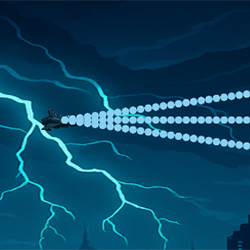
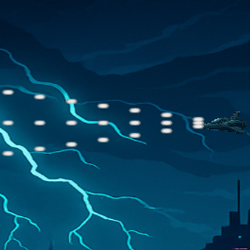
Fixed bullet bugs, changed assets and bullet selector (added desc too)

diff --git a/script.js b/script.js
@@ -1,25 +1,14 @@
 // ───────────────────────────── GLOBAL VARIABLES ─────────────────────────────
-
 let playerleft, playerright, player, bulletColor, stageData, stageBgImg, startButton, controlsButton, leaderboardButton, backButton, rightArrow, leftArrow, nextButton, difficulty, font, menubg, controls, pulse, fracture, gravetide, menuvid, stageBackgrounds, menuTitle, username, deathSound, bulletStrong, bulletWeak, playerCollision;
-let worldWidth = 1500;
+let score = 0, camX = 0, state = 0,bulletrotator = 0,lastShotTime = 0, finalScore = 0;
+let petdirectionP = 1, currentStage = 1, currentLevel = 1;
+let stageInitialized = false, gameOver = false, scoreSubmitted = false, isPaused = false;
 let playerSpeed = 5;
-let score = 0;
-let camX = 0;
-let state = 0;
-let bulletrotator = 0;
-let lastShotTime = 0;
-let petdirectionP = 1;
 let hitpoints = 100; //current hitpoints
 let hitpointsMax = 100; //max hitpoints on hard
-let currentStage = 1;
-let currentLevel = 1;
-let finalScore = 0;
-let stageInitialized = false;
+let worldWidth = 1500;
 let menuState = "main";
 let leaderBoard = [["Pilot 1", 310], ["Pilot 2", 1105], ["Pilot 3", 2206]]; //just filling for the leaderboard
-let gameOver = false;
-let scoreSubmitted = false;
-let isPaused = false;
 // Kamikaze enemy
 let wavesofK = 5, waveKActive = false, waveKSpawned = false;
 let warningStartTimeK = 0, warningDelayK = 1000, warningPatternK = null;
@@ -89,6 +78,7 @@ function setup() {
   menuTitle.style("color", "white");
   menuTitle.style("font-family", "Rubik Glitch");
   menuTitle.position(100, height / 2 - 250);
+  
   startButton = createMenuButton('START', 100, height / 2 - 100);
   controlsButton = createMenuButton('CONTROLS',100, height / 2);
   leaderboardButton = createMenuButton('LEADERBOARD',100, height / 2 + 100);
@@ -199,7 +189,7 @@ function wmedium(direction, y1, y2) {
   }
 }
 function wheavy(direction) {
-  const shotCooldown = 100;
+  const shotCooldown = 200;
   if (millis() - lastShotTime > shotCooldown) {
       let w = createSprite(player.position.x, player.position.y, 5);
       w.addImage(wheavyimg);
@@ -391,7 +381,6 @@ function ui() {
   // Calculate the filled width based on hitpoints
   let filledWidth = map(hitpoints, 0, hitpointsMax, 0, barWidth);
   rect(x, y, filledWidth, barHeight, 10);
-  console.log("HP:", hitpoints);
   fill(255);
   text("Stage " + currentStage + "\nLevel " + currentLevel, 10, 40);
 }
@@ -413,7 +402,6 @@ function submitScore() {
   username.position(width / 2 - 100, height / 2 - 50);
   username.size(200);
   username.attribute('placeholder', 'Pilot Name');
-
   let submitButton = createButton('Submit');
   submitButton.position(width / 2 - 100, height / 2);
   submitButton.mousePressed(() => {
@@ -423,7 +411,7 @@ function submitScore() {
     username.remove();
     submitButton.remove();
     menuState = "leaderboard";
-    console.log("Score submitted:", name);
+    scoreSubmitted = true; 
   });
 }
 function showMainMenu() {
@@ -463,7 +451,6 @@ function keyPressed() {
 }
 // ───────────────────────────── STAGE LOADER────────────────────────────
 function stageLoader(stage, level) {
-  console.log(`Loading Stage ${stage} Level ${level}`);
   // Clear groups and reset wave flags
   kamiGroup.removeSprites();
   patGroup.removeSprites();
@@ -494,7 +481,6 @@ function stageLoader(stage, level) {
   }
   player.position.x = worldWidth / 2;
   player.position.y = height / 2;
-  console.log("Stage loaded");
 }
 // ──────────────────────────── DRAW LOOP ────────────────────────────
 function draw() {
@@ -504,12 +490,18 @@ function draw() {
     } else if (menuState === "selectBullet") {
       image(menuvid, 0, 0, width, height);
       imageMode(CENTER);
+      fill(355)
+      textSize(20)
+      textAlign(CENTER, CENTER);
       if (bulletrotator === 0) {
         image(pulse, 250, 200);
+        text('Shoots a rapid string of bullets, \n it deals medium damage but is \neffective in rapidly \ndamaging enemies.', width /2 + 225, height /2 -100)
       } else if (bulletrotator === 1) {
         image(fracture, 250, 200);
+        text('Shoots a spread of bullets, \n it deals light damage but is \neffective in damaging many\n enemies at once.', width /2 + 225, height /2 -100)
       } else if (bulletrotator === 2) {
         image(gravetide, 250, 200);
+        text('Shoots a slow stream of bullets, \n it deals heavy damage.\n If accurate you will destory \nenemies quickly.', width /2 + 225, height /2 -100)
       } imageMode(CORNER);
     } else if (menuState === "controls") {
       image(menuvid, 0, 0, width, height);
@@ -590,7 +582,7 @@ function draw() {
       if (keyIsDown(37)) {
         if (bulletrotator == 0) wlight(-12);
         else if (bulletrotator == 1) wmedium(-7, 1, -1);
-        else if (bulletrotator == 2) wheavy(-6);
+        else if (bulletrotator == 2) wheavy(-9);
       } else if (keyIsDown(39)) {
         if (bulletrotator == 0) wlight(12);
         else if (bulletrotator == 1) wmedium(7, 1, -1);
@@ -672,7 +664,6 @@ function draw() {
       text("Press R to restart", width / 2, height / 2 + 50);
       if (!scoreSubmitted) {
         submitScore();
-        scoreSubmitted = true;
       }
     }
     if (hitpoints <= 0 && !gameOver) {
@@ -689,7 +680,6 @@ function draw() {
       text("Press R to restart", width / 2, height / 2 + 50);
       if (!scoreSubmitted) {
         submitScore();
-        scoreSubmitted = true;
       }
     }
   }
